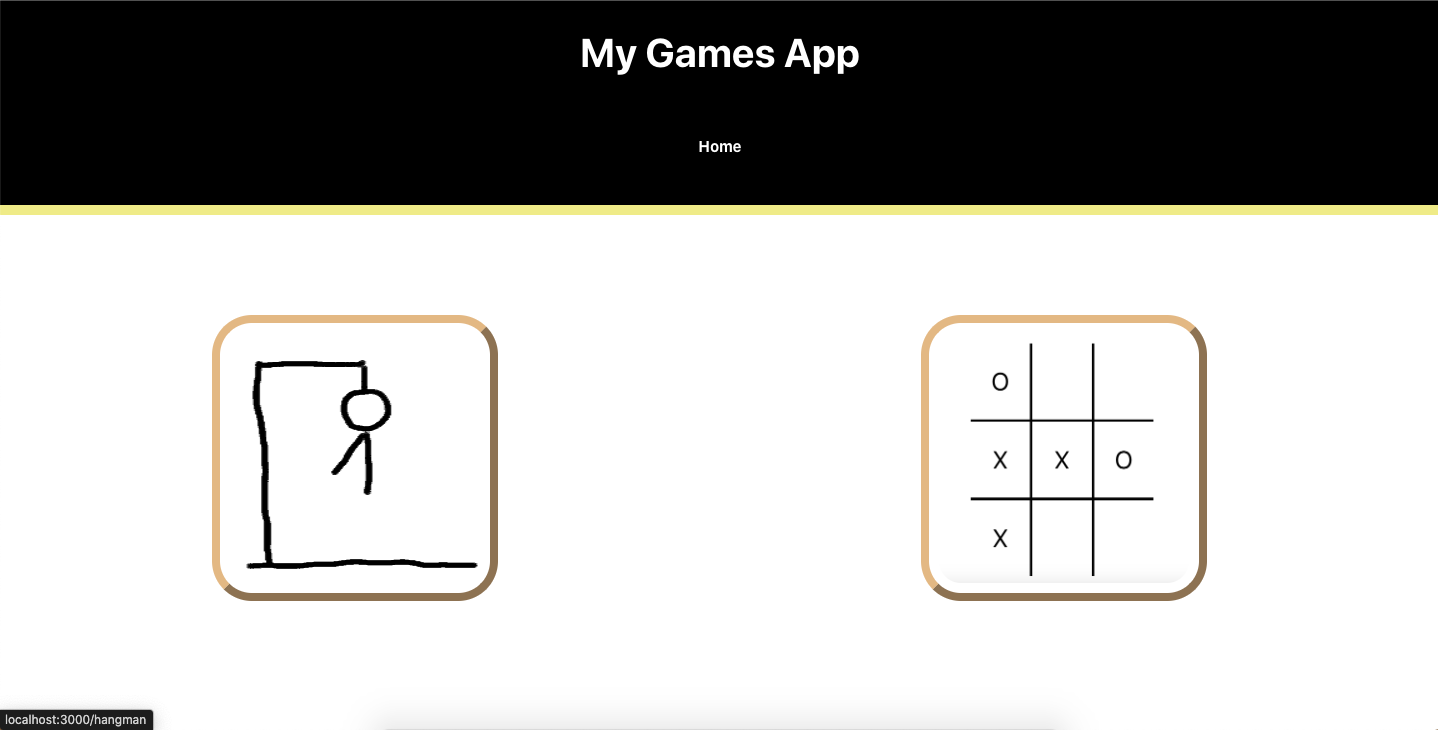
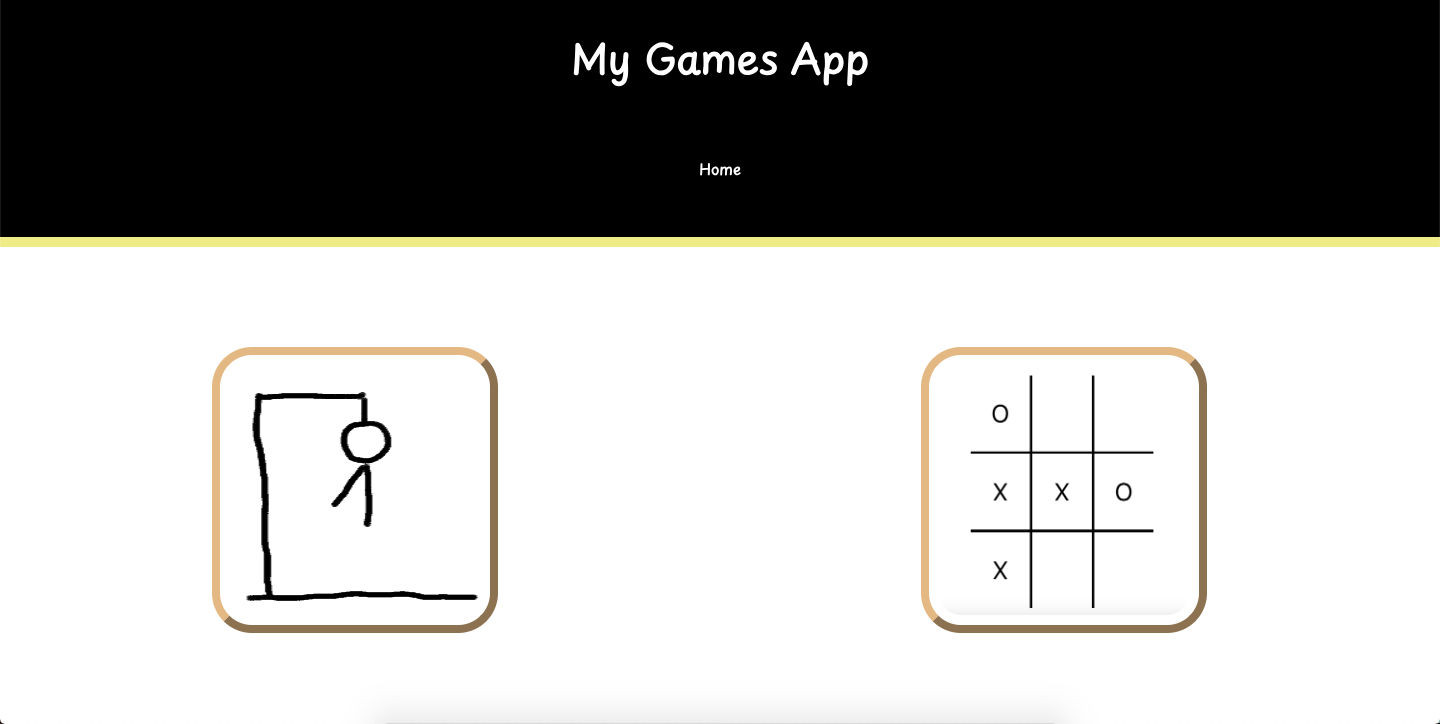
updated projects page

diff --git a/src/components/projects.js b/src/components/projects.js
@@ -18,50 +18,14 @@ function Projects() {
                         <a href="http://sbaldwin-library.netlify.app" target="_blank" rel="noreferrer"><img class="projectsImg" src={library}></img></a>
                         <h1>Library App</h1>
                     </div>
+                    <div id="gamesApp">
+                        <a href="http://sbaldwin-games-app.netlify.app" target="_blank" rel="noreferrer"><img class="projectsImg" src={gamesApp}></img></a>
+                        <h1>Games App</h1>
+                    </div>
                     
                     
                 </div>
-                {/* <table id="projectsGrid">
-                    <tr>
-                        <td>
-                            <div class="projectsInfo">
-                            <a href="http://sbaldwin-library.netlify.app" target="_blank" rel="noreferrer"><img class="projectPic" src={library} alt="Screenshot"></img></a>
-                            <p><b>Library</b></p>
-                            <p>JavaScript | HTML | CSS</p>
-                            <p>This project I created a library where the user can store a list of books they have read along with a review. The website allows you to
-                                add, edit and delete entries. I used arrays and DOM manipulation to create lists and populate different elements to create a bookshelf look.
-                                The website uses JSON local session storage to keep the information saved. 
-                            </p>
-                            </div>
-                        </td>
-                        <td>
-                            <div class="projectsInfo">
-                            <a href="https://sbaldwin-clone-webpage.netlify.app" target="_blank" rel="noreferrer"><img class="projectPic" src={cloneWebpage} alt="Screenshot"></img></a>
-                            <p><b>Clone Webpage</b></p>
-                            <p>React | JavaScript | HTML | CSS</p>
-                            <p>This was one of my first projects using React in my Web Development Bootcamp. I was given the task to clone a webpage and I landed on the WWF webpage.
-                            I ultilised functional components to recreate similar elements on the page and change the content. I really enjoyed this project as it enabled me to really develop
-                            my CSS skills and research new ways of create styles.
-                            <p><a href="https://www.wwf.org.uk/"> Original WWF Webpage </a></p>
-                            <p>Cloned only for practice purposes, original webpage may have been updated since.</p>
-                            </p>
-                            </div>
-                        </td>
-                        <td>
-                            <div class="projectsInfo">
-                            <a href="https://sbaldwin-games-app.netlify.app" target="_blank" rel="noreferrer"><img class="projectPic" src={gamesApp} alt="Screenshot"></img></a>
-                            <p><b>Games App</b></p>
-                            <p>React | JavaScript | HTML | CSS</p>
-                            <p>This was my final project during my Web Development bootcamp. I had to use React to create an app that showcased everything I learned during the course.
-                            I created a hangman game that utilises state management for user interaction. <p>I have since decided to continue with this project and want to introduce other games to
-                            the app, currently I am working on Tic Tac Toe.</p> 
-                            </p>
-                            </div>
-                        </td>
-                        
-                        
-                    </tr>
-                </table>     */}
+                
             
         </div>
     )

diff --git a/src/App.css b/src/App.css
@@ -165,6 +165,7 @@ body {
   top: 0px;
   left:1px;
   z-index:100;
+  box-shadow: 0px 0px 10px;
   
 
 }
@@ -190,6 +191,7 @@ body {
   z-index:100;
   transform: rotate(-180deg);
   transition-duration: 1s;
+  
 }
 .logo-active:hover {
   color: black;
@@ -213,6 +215,8 @@ body {
   min-width:37px;
   
   
+  
+  
 }
 .icon:hover {
   font-size: max(2vw,15px);
@@ -220,6 +224,7 @@ body {
   background-color: rgb(241, 192, 200);
   transition-duration: 0.5s;
   color:black;
+  
   
   
 }
@@ -244,6 +249,7 @@ body {
   min-width:37px;
   
   
+  
 }
 .active .icon:hover {
   font-size: max(2vw,15px);
@@ -262,7 +268,8 @@ body {
 @media screen and (min-width: 900px){
   .icon:hover {
     width: 120%;
-    height:45px
+    height:45px;
+    
 
   }
   .active .icon:hover {
@@ -866,16 +873,24 @@ tr {
 
 #projectsContainer {
   display: flex;
-  width:70%;
+  justify-content: space-between;
+  width:75%;
+  
   margin: auto;
   margin-top:100px;
+  
   
 }
 
 .projectsImg {
   width: 100%;
   border-radius:4px;
-  border:white 2px solid
+  border:white 2px solid;
+  height: min(25vw,250px);
+  min-height:120px;
+  object-fit: cover;
+  object-position: 75% 25%;
+  
 }
 
 @media screen and (max-width: 900px) {
